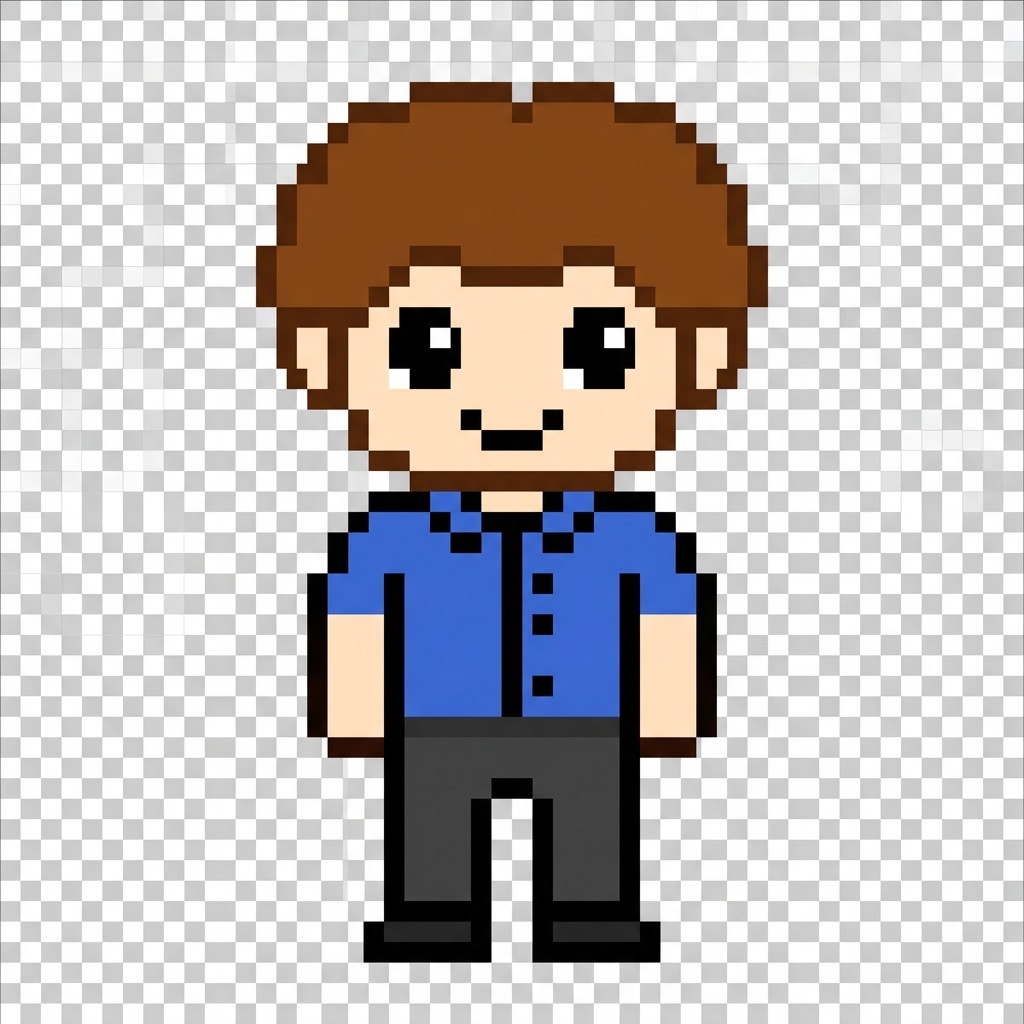
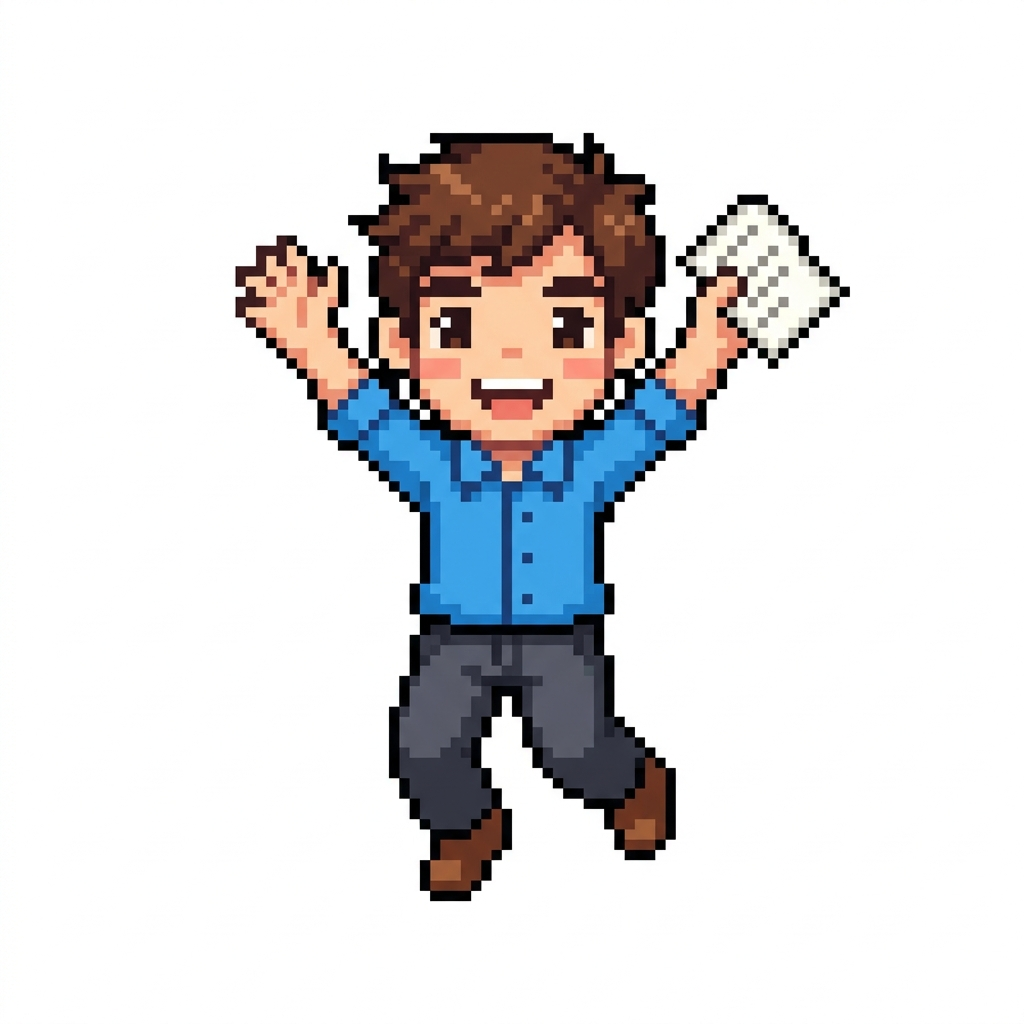
feat: complete UI/UX overhaul to cheerful retro pixel art style

diff --git a/frontend/src/App.tsx b/frontend/src/App.tsx
@@ -43,20 +43,21 @@ function App() {
 
   if (error) {
     return (
-      <div className="w-full h-screen bg-slate-900 text-white flex flex-col items-center justify-center gap-4">
-        <div className="p-4 bg-red-900/20 border border-red-500/50 rounded-2xl text-red-200">
+      <div className="w-full h-screen flex flex-col items-center justify-center gap-4 bg-red-100">
+        <div className="p-4 bg-red-200 border-4 border-black shadow-[4px_4px_0px_0px_rgba(0,0,0,1)] text-red-800 font-bold">
           {error}
         </div>
-        <button onClick={() => window.location.reload()} className="px-4 py-2 bg-indigo-600 rounded-lg">Retry Connection</button>
+        <button onClick={() => window.location.reload()} className="px-4 py-2 bg-blue-400 border-2 border-black shadow-[4px_4px_0px_0px_rgba(0,0,0,1)] active:translate-y-1 active:shadow-none hover:bg-blue-500 font-bold text-white">다시 연결</button>
       </div>
     );
   }
 
   if (!templates) {
     return (
-      <div className="w-full h-screen bg-slate-900 text-white flex flex-col items-center justify-center gap-4">
-        <Loader2 className="animate-spin text-indigo-500" size={48} />
-        <p className="text-slate-400 animate-pulse">Initializing Virtual Office Engine...</p>
+      <div className="w-full h-screen flex flex-col items-center justify-center gap-4">
+        <div className="animate-bounce bg-white border-4 border-black p-4 shadow-[4px_4px_0px_0px_rgba(0,0,0,1)]">
+            <h1 className="text-2xl font-bold text-black">로딩중...</h1>
+        </div>
       </div>
     );
   }
@@ -108,139 +109,144 @@ function App() {
   };
 
   return (
-    <div className="w-full h-screen bg-slate-900 text-white flex overflow-hidden fixed inset-0">
+    <div className="w-full h-screen flex overflow-hidden fixed inset-0 font-['NeoDunggeunmo'] text-black p-4 gap-4">
+      
       {/* Sidebar */}
-      <aside className="w-80 h-full bg-slate-800 border-r border-slate-700 p-6 flex flex-col gap-6 flex-shrink-0">
-        <div className="flex items-center gap-3">
-          <div className="p-2 bg-indigo-600 rounded-lg shadow-lg">
-            <Terminal size={24} />
-          </div>
-          <h1 className="text-xl font-bold">AI Agent Office</h1>
+      <aside className="w-80 h-full flex flex-col gap-4 flex-shrink-0 relative z-10">
+        
+        {/* Title Box */}
+        <div className="bg-white border-4 border-black p-4 shadow-[4px_4px_0px_0px_rgba(0,0,0,1)] flex items-center justify-center gap-2">
+            <Terminal size={24} className="text-blue-500" />
+            <h1 className="text-2xl font-bold text-black tracking-wider">AI 회사</h1>
         </div>
 
-        <section className="bg-slate-900/50 p-4 rounded-xl border border-slate-700 shadow-inner">
-          <h3 className="text-xs font-semibold text-slate-400 uppercase mb-3 flex items-center gap-2">
-            <Plus size={14} /> Summon New Agent
+        {/* Summoning Box */}
+        <section className="bg-[#fde047] p-4 border-4 border-black shadow-[4px_4px_0px_0px_rgba(0,0,0,1)] flex flex-col">
+          <h3 className="text-sm font-bold text-black uppercase mb-2 flex items-center gap-2 border-b-2 border-black pb-1">
+            <Plus size={16} /> 신규 직원 채용 (소환)
           </h3>
           <textarea 
             value={spawnDesc}
             onChange={(e) => setSpawnDesc(e.target.value)}
-            placeholder="Describe persona..."
-            className="w-full bg-slate-800 border border-slate-700 rounded-lg p-3 text-sm focus:ring-2 focus:ring-indigo-500 outline-none h-24 resize-none transition-all text-white"
+            placeholder="직원의 성격과 능력을 묘사해주세요..."
+            className="w-full bg-white border-2 border-black p-2 text-sm focus:outline-none focus:ring-0 h-20 resize-none text-black placeholder-gray-400"
           />
           <button 
             onClick={handleSpawn}
             disabled={isSpawning || !spawnDesc.trim()}
-            className="w-full mt-3 bg-indigo-600 hover:bg-indigo-700 disabled:opacity-50 py-2.5 rounded-lg font-semibold flex items-center justify-center gap-2 transition-all"
+            className="w-full mt-2 bg-[#60a5fa] hover:bg-[#3b82f6] disabled:opacity-50 py-2 border-2 border-black shadow-[2px_2px_0px_0px_rgba(0,0,0,1)] active:translate-y-[2px] active:translate-x-[2px] active:shadow-none font-bold flex items-center justify-center gap-2 text-white"
           >
-            {isSpawning ? <Loader2 className="animate-spin" size={18} /> : <span>Spawn Agent</span>}
+            {isSpawning ? <span className="animate-pulse">소환 중...</span> : <span>직원 소환!</span>}
           </button>
         </section>
 
-        <section className="flex-1 overflow-y-auto custom-scrollbar">
-          <div className="flex items-center gap-2 text-slate-400 mb-4 text-xs font-semibold uppercase tracking-wider">
-            <Users size={14} />
-            <span>Active Agents ({agents.length})</span>
+        {/* Agent List */}
+        <section className="flex-1 bg-white p-4 border-4 border-black shadow-[4px_4px_0px_0px_rgba(0,0,0,1)] flex flex-col overflow-hidden">
+          <div className="flex items-center gap-2 text-black mb-2 text-sm font-bold uppercase tracking-wider border-b-2 border-black pb-1">
+            <Users size={16} />
+            <span>현재 직원 목록 ({agents.length}명)</span>
           </div>
-          <div className="flex flex-col gap-3">
+          <div className="flex-1 overflow-y-auto custom-scrollbar flex flex-col gap-2 pr-2">
             {agents.map((agent: any) => (
               <div 
                 key={agent?.id} 
                 onClick={() => setSelectedAgentId(agent?.id)}
-                className={`bg-slate-700/40 border p-3 rounded-xl hover:border-indigo-500/50 transition-all group cursor-pointer ${selectedAgentId === agent?.id ? 'border-indigo-500 bg-indigo-500/10' : 'border-slate-600/50'}`}
+                className={`border-2 p-2 cursor-pointer transition-all ${selectedAgentId === agent?.id ? 'border-black bg-[#bfdbfe] shadow-[2px_2px_0px_0px_rgba(0,0,0,1)] -translate-y-1 -translate-x-1' : 'border-gray-300 hover:border-black bg-gray-50'}`}
               >
-                <div className="flex justify-between items-start">
-                  <div className="font-bold text-indigo-300 truncate pr-2">{agent?.name}</div>
-                  <div className="flex gap-2">
-                    <button 
-                      onClick={(e) => { e.stopPropagation(); handleMove(agent?.id); }}
-                      className="text-xs bg-slate-600 hover:bg-indigo-500 text-white p-1 rounded transition-colors"
-                      title="Move to random location"
-                    >
-                      <Navigation size={12} />
-                    </button>
-                    <div className="text-[10px] bg-indigo-900/30 text-indigo-400 px-2 py-0.5 rounded-full border border-indigo-700/50">LVL 1</div>
+                <div className="flex justify-between items-start mb-1">
+                  <div className="font-bold text-lg text-blue-700">{agent?.name}</div>
+                  <div className="text-[10px] bg-yellow-200 px-1 border border-black">{agent?.persona?.Role || '직원'}</div>
+                </div>
+                <div className="text-xs text-gray-700 truncate mb-1">
+                  행동: {agent?.current_action}
+                </div>
+                {agent?.current_speech && (
+                  <div className="text-xs bg-white border border-gray-400 p-1 italic text-gray-800 line-clamp-2">
+                    "{agent.current_speech}"
                   </div>
-                </div>
-                <div className="text-[11px] text-slate-400 mt-1 flex items-center gap-1.5">
-                  <span className="inline-block w-1.5 h-1.5 bg-green-500 rounded-full animate-pulse" />
-                  {agent?.current_action || "Idle"}
-                </div>
+                )}
               </div>
             ))}
+            {agents.length === 0 && (
+              <div className="text-center text-gray-400 mt-10 text-sm">출근한 직원이 없습니다.</div>
+            )}
+          </div>
+        </section>
+      </aside>
+
+      {/* Main Content Area */}
+      <main className="flex-1 flex flex-col gap-4 min-w-0">
+        
+        {/* Top Bar */}
+        <header className="bg-white border-4 border-black p-3 shadow-[4px_4px_0px_0px_rgba(0,0,0,1)] flex justify-between items-center z-10 relative">
+          <div className="flex items-center gap-2 font-bold text-lg">
+            <MapIcon size={20} className="text-green-600" />
+            <span>오피스 맵</span>
+            <span className="text-sm font-normal text-gray-500 ml-2">(현재 맵: {currentMap?.name || '로딩중'})</span>
+          </div>
+          <div className="relative">
+            <button 
+              onClick={() => setShowTemplates(!showTemplates)}
+              className="px-3 py-1 bg-white border-2 border-black hover:bg-gray-100 font-bold shadow-[2px_2px_0px_0px_rgba(0,0,0,1)] active:translate-y-[2px] active:translate-x-[2px] active:shadow-none"
+            >
+              맵 변경 ▼
+            </button>
+            {showTemplates && templates && (
+              <div className="absolute right-0 top-full mt-2 w-48 bg-white border-4 border-black p-2 shadow-[4px_4px_0px_0px_rgba(0,0,0,1)] flex flex-col gap-2 z-50">
+                {Object.entries(templates).map(([id, t]: [string, any]) => (
+                  <button 
+                    key={id}
+                    onClick={() => handleSelectTemplate(id)}
+                    className="text-left px-2 py-1 hover:bg-[#bfdbfe] border border-transparent hover:border-black font-bold text-sm"
+                  >
+                    {t.name}
+                  </button>
+                ))}
+              </div>
+            )}
+          </div>
+        </header>
+
+        {/* Game Canvas Container */}
+        <div className="flex-1 bg-[#86efac] border-4 border-black shadow-[4px_4px_0px_0px_rgba(0,0,0,1)] relative overflow-hidden flex items-center justify-center p-2">
+           <div className="w-full h-full border-2 border-black bg-white overflow-hidden relative">
+             <GameCanvas />
+           </div>
+        </div>
+
+        {/* Chat / Command Panel */}
+        <section className="bg-white border-4 border-black shadow-[4px_4px_0px_0px_rgba(0,0,0,1)] p-3 flex gap-3 h-32 z-10 relative">
+          <div className="flex-1 flex flex-col">
+            <div className="text-sm font-bold text-black mb-1 flex items-center gap-1">
+              <MessageCircle size={14} /> 
+              {selectedAgentId ? `${agents.find((a:any) => a.id === selectedAgentId)?.name}에게 말걸기` : '직원을 선택하세요'}
+            </div>
+            <textarea
+              value={chatMessage}
+              onChange={(e) => setChatMessage(e.target.value)}
+              disabled={!selectedAgentId}
+              placeholder={selectedAgentId ? "메시지를 입력하세요..." : "대화할 직원을 왼쪽에서 클릭하세요."}
+              className="flex-1 w-full bg-gray-50 border-2 border-black p-2 text-sm focus:outline-none resize-none disabled:bg-gray-200"
+            />
+          </div>
+          <div className="flex flex-col gap-2 justify-end w-32">
+             <button 
+                onClick={handleChat}
+                disabled={!selectedAgentId || !chatMessage.trim() || isSending}
+                className="w-full bg-[#f87171] hover:bg-[#ef4444] disabled:opacity-50 py-2 border-2 border-black shadow-[2px_2px_0px_0px_rgba(0,0,0,1)] active:translate-y-[2px] active:translate-x-[2px] active:shadow-none font-bold text-white flex items-center justify-center gap-1"
+              >
+                {isSending ? <span className="animate-pulse">전송중..</span> : <span>말하기</span>}
+              </button>
+              <button 
+                onClick={() => selectedAgentId && handleMove(selectedAgentId)}
+                disabled={!selectedAgentId}
+                className="w-full bg-[#4ade80] hover:bg-[#22c55e] disabled:opacity-50 py-2 border-2 border-black shadow-[2px_2px_0px_0px_rgba(0,0,0,1)] active:translate-y-[2px] active:translate-x-[2px] active:shadow-none font-bold text-white flex items-center justify-center gap-1"
+              >
+                <Navigation size={14} /> 랜덤이동
+              </button>
           </div>
         </section>
 
-        {/* Chat Section */}
-        {selectedAgentId && (
-          <section className="bg-slate-900/50 p-4 rounded-xl border border-indigo-500/30 shadow-inner mt-auto">
-            <h3 className="text-xs font-semibold text-indigo-400 uppercase mb-3 flex items-center gap-2">
-              <MessageCircle size={14} /> Chat with {agentsObj[selectedAgentId]?.name}
-            </h3>
-            <input 
-              value={chatMessage}
-              onChange={(e) => setChatMessage(e.target.value)}
-              onKeyDown={(e) => e.key === 'Enter' && handleChat()}
-              placeholder="Send message..."
-              className="w-full bg-slate-800 border border-slate-700 rounded-lg p-2 text-sm focus:ring-2 focus:ring-indigo-500 outline-none text-white"
-            />
-            <button 
-              onClick={handleChat}
-              disabled={isSending || !chatMessage.trim()}
-              className="w-full mt-2 bg-indigo-600 hover:bg-indigo-700 disabled:opacity-50 py-1.5 rounded-lg text-xs font-bold flex items-center justify-center gap-2 transition-all"
-            >
-              {isSending ? <Loader2 className="animate-spin" size={14} /> : <span>Send to Agent</span>}
-            </button>
-          </section>
-        )}
-      </aside>
-
-      {/* Main Content */}
-      <main className="flex-1 h-full p-8 flex flex-col items-center gap-8 bg-slate-900 overflow-y-auto custom-scrollbar relative">
-        <div className="w-full flex justify-between items-center max-w-5xl flex-shrink-0">
-           <div>
-             <h2 className="text-2xl font-bold flex items-center gap-3">
-               <MapIcon className="text-indigo-500" />
-               {currentMap?.name || "Virtual Environment"}
-             </h2>
-           </div>
-           <div className="relative">
-             <button 
-               onClick={() => setShowTemplates(!showTemplates)}
-               className="flex items-center gap-2 bg-slate-800 hover:bg-slate-700 border border-slate-700 px-5 py-2.5 rounded-xl transition-all font-semibold"
-             >
-               <MapIcon size={18} className="text-indigo-400" />
-               Change Template
-             </button>
-             
-             {showTemplates && (
-               <div className="absolute right-0 mt-3 w-56 bg-slate-800 border border-slate-700 rounded-2xl shadow-2xl z-50 overflow-hidden">
-                 {Object.values(templates || {}).map((t: any) => (
-                   <button 
-                     key={t?.id}
-                     onClick={() => handleSelectTemplate(t?.id)}
-                     className="w-full text-left px-5 py-3.5 hover:bg-indigo-600 transition-colors"
-                   >
-                     <span className="font-medium">{t?.name}</span>
-                   </button>
-                 ))}
-               </div>
-             )}
-           </div>
-        </div>
-
-        <div className="flex-shrink-0">
-          <GameCanvas />
-        </div>
-        
-        <div className="w-full max-w-5xl bg-slate-800/50 border border-slate-700 p-6 rounded-2xl flex-shrink-0">
-           <div className="bg-slate-950 p-4 rounded-xl font-mono text-xs h-32 overflow-y-auto custom-scrollbar">
-             <div className="text-emerald-500">[System] Real-time engine connected.</div>
-             {agents.map((a: any, i: number) => (
-               <div key={i} className="text-slate-400 mt-1">[{new Date().toLocaleTimeString()}] Agent {a?.name} ready.</div>
-             ))}
-           </div>
-        </div>
       </main>
     </div>
   );

diff --git a/frontend/src/game/MainScene.ts b/frontend/src/game/MainScene.ts
@@ -91,17 +91,18 @@ export class MainScene extends Phaser.Scene {
             // Fill
             const rect = this.add.rectangle(x, y, width, height, color, 0.4)
                 .setOrigin(0, 0)
-                .setStrokeStyle(2, color, 1.0); // Restored border
+                .setStrokeStyle(3, color, 1.0); // Thicker retro border
             this.mapContainer.add(rect);
 
-            // Restored Label
+            // Restored Label with Pixel Font
             const text = this.add.text(x + 8, y + 8, zone.name, { 
-                fontSize: '14px', 
-                color: '#333333', 
-                fontStyle: 'bold',
-                backgroundColor: 'rgba(255, 255, 255, 0.5)',
+                fontFamily: 'NeoDunggeunmo',
+                fontSize: '18px', 
+                color: '#000000', 
+                backgroundColor: '#ffffff',
                 padding: { x: 4, y: 2 }
             });
+            text.setStroke('#000000', 2);
             this.mapContainer.add(text);
         });
 
@@ -111,17 +112,17 @@ export class MainScene extends Phaser.Scene {
                 const x = obs[0] * this.gridSize;
                 const y = obs[1] * this.gridSize;
                 
-                // Sleek Dark Blocks for the final look
-                const rect = this.add.rectangle(x, y, this.gridSize, this.gridSize, 0x1e293b, 1.0)
+                // Solid black block for retro wall
+                const rect = this.add.rectangle(x, y, this.gridSize, this.gridSize, 0x374151, 1.0)
                     .setOrigin(0, 0)
-                    .setStrokeStyle(2, 0xffffff);
+                    .setStrokeStyle(2, 0x000000);
                 this.mapContainer.add(rect);
             });
         }
 
         // Grid lines at the end
         const graphics = this.add.graphics();
-        graphics.lineStyle(1, 0x000000, 0.1);
+        graphics.lineStyle(2, 0x000000, 0.1); // Thicker grid lines
         for (let i = 0; i <= data.width; i++) {
             graphics.moveTo(i * this.gridSize, 0);
             graphics.lineTo(i * this.gridSize, data.height * this.gridSize);
@@ -160,23 +161,26 @@ export class MainScene extends Phaser.Scene {
         
         // Name Label
         const label = this.add.text(0, 25, data.name, { 
-          fontSize: '10px', 
+          fontFamily: 'NeoDunggeunmo',
+          fontSize: '12px', 
           color: '#ffffff',
-          backgroundColor: '#1e293b',
+          backgroundColor: '#000000',
           padding: { x: 4, y: 2 }
         }).setOrigin(0.5);
 
         // Speech Bubble
-        const bubble = this.add.text(0, -40, "", {
-          fontSize: '11px',
-          color: '#1e293b',
+        const bubble = this.add.text(0, -35, "", {
+          fontFamily: 'NeoDunggeunmo',
+          fontSize: '14px',
+          color: '#000000',
           backgroundColor: '#ffffff',
-          padding: { x: 8, y: 5 },
-          wordWrap: { width: 140 },
-          align: 'center'
+          padding: { x: 8, y: 6 },
+          wordWrap: { width: 150 },
+          align: 'center',
         }).setOrigin(0.5, 1).setVisible(false);
         
-        // Add shadow/border to bubble if possible (simplified here)
+        // Add retro border to bubble
+        bubble.setStroke('#000000', 3);
         
         container.add([body, label, bubble]);
         this.agentSprites.set(id, { container, body, label, bubble });
@@ -189,17 +193,14 @@ export class MainScene extends Phaser.Scene {
           targets: spriteData.container,
           x: targetX,
           y: targetY,
-          duration: 600,
-          ease: 'Cubic.easeOut'
+          duration: 400, // Faster, snappier movement for retro feel
+          ease: 'Linear'
         });
 
         // Update speech bubble
         if (data.current_speech && data.current_speech.trim() !== "") {
           spriteData.bubble.setText(data.current_speech);
           spriteData.bubble.setVisible(true);
-          
-          // Auto-hide bubble after 5 seconds if speech doesn't change
-          // (In a real app, you might want to handle this via the backend state)
         } else {
           spriteData.bubble.setVisible(false);
         }

diff --git a/frontend/src/index.css b/frontend/src/index.css
@@ -1,3 +1,5 @@
+@import url('https://cdn.jsdelivr.net/gh/neodgm/neodgm-webfont@1.530/neodgm/style.css');
+
 @tailwind base;
 @tailwind components;
 @tailwind utilities;
@@ -8,7 +10,8 @@ html, body {
   width: 100%;
   height: 100%;
   overflow: hidden;
-  background-color: #0f172a; /* Slate-900 */
+  background-color: #86efac; /* Bright retro green background */
+  font-family: 'NeoDunggeunmo', 'Courier New', monospace;
 }
 
 #root {
